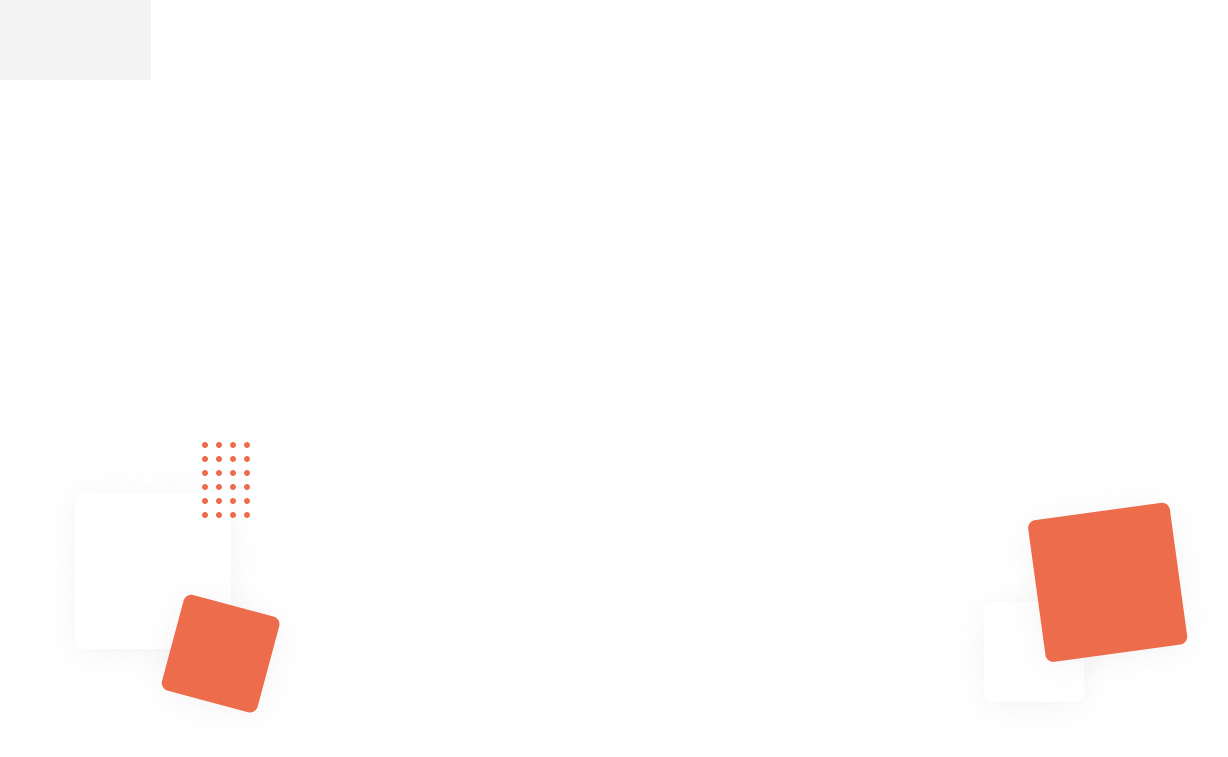
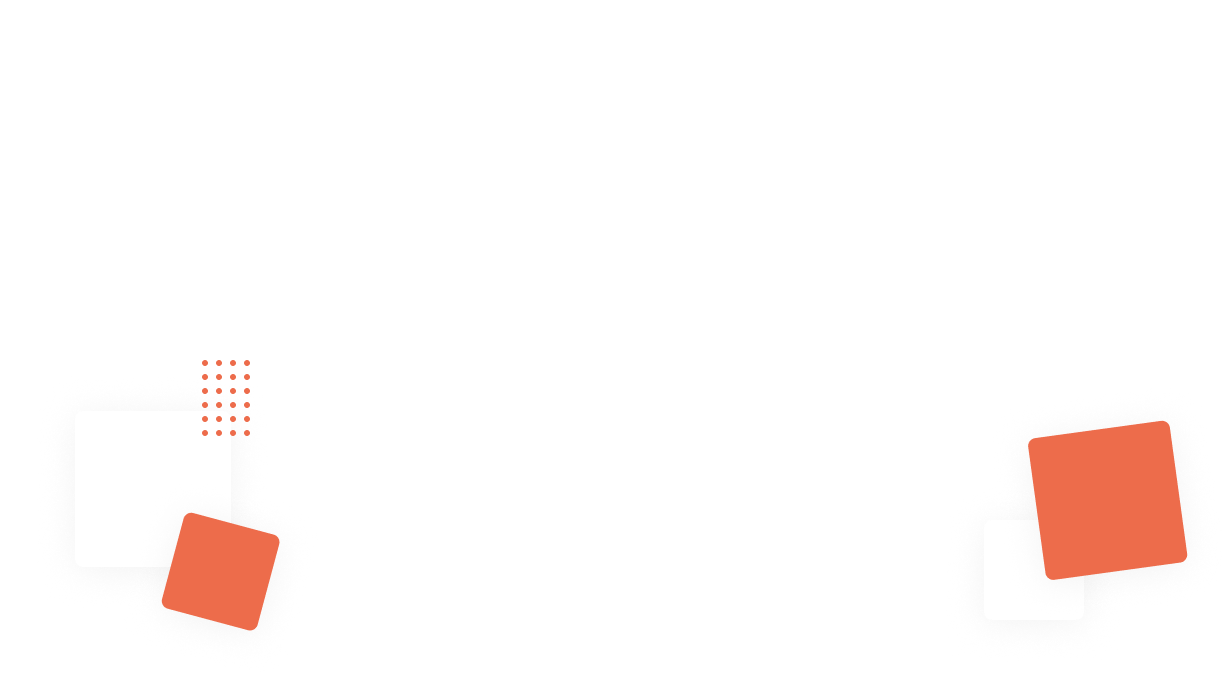
(fix) Auth Backgrounds + Welcome Backgrounds

diff --git a/public/css/app.css b/public/css/app.css
@@ -825,8 +825,8 @@ video {
   inset: 0px;
 }.bottom-0 {
   bottom: 0px;
-}.bottom-80 {
-  bottom: 20rem;
+}.bottom-52 {
+  bottom: 13rem;
 }.bottom-\[60px\] {
   bottom: 60px;
 }.left-0 {
@@ -837,14 +837,12 @@ video {
   right: 0px;
 }.top-0 {
   top: 0px;
-}.bottom-60 {
-  bottom: 15rem;
-}.bottom-40 {
-  bottom: 10rem;
-}.bottom-52 {
-  bottom: 13rem;
-}.bottom-56 {
-  bottom: 14rem;
+}.top-20 {
+  top: 5rem;
+}.bottom-10 {
+  bottom: 2.5rem;
+}.right-10 {
+  right: 2.5rem;
 }.z-10 {
   z-index: 10;
 }.z-20 {
@@ -855,6 +853,8 @@ video {
   z-index: 40;
 }.z-50 {
   z-index: 50;
+}.z-0 {
+  z-index: 0;
 }.col-span-2 {
   grid-column: span 2 / span 2;
 }.col-span-3 {
@@ -865,8 +865,6 @@ video {
   grid-column: span 5 / span 5;
 }.col-span-7 {
   grid-column: span 7 / span 7;
-}.col-span-1 {
-  grid-column: span 1 / span 1;
 }.m-\[120px\] {
   margin: 120px;
 }.mx-\[120px\] {
@@ -974,6 +972,10 @@ video {
   width: fit-content;
 }.w-full {
   width: 100%;
+}.w-1\/12 {
+  width: 8.333333%;
+}.w-1\/6 {
+  width: 16.666667%;
 }.max-w-7xl {
   max-width: 80rem;
 }.max-w-screen-xl {
@@ -1159,9 +1161,6 @@ video {
 }.border-white {
   --tw-border-opacity: 1;
   border-color: rgb(255 255 255 / var(--tw-border-opacity));
-}.border-custom-red {
-  --tw-border-opacity: 1;
-  border-color: rgb(240 30 30 / var(--tw-border-opacity));
 }.bg-blue-700 {
   --tw-bg-opacity: 1;
   background-color: rgb(26 86 219 / var(--tw-bg-opacity));
@@ -1198,13 +1197,13 @@ video {
 }.bg-gray-900 {
   --tw-bg-opacity: 1;
   background-color: rgb(17 24 39 / var(--tw-bg-opacity));
+}.bg-transparent {
+  background-color: transparent;
 }.bg-white {
   --tw-bg-opacity: 1;
   background-color: rgb(255 255 255 / var(--tw-bg-opacity));
 }.bg-white\/50 {
   background-color: rgb(255 255 255 / 0.5);
-}.bg-transparent {
-  background-color: transparent;
 }.bg-opacity-50 {
   --tw-bg-opacity: 0.5;
 }.bg-landing-1 {
@@ -1215,6 +1214,9 @@ video {
   background-position: center;
 }.fill-current {
   fill: currentColor;
+}.object-cover {
+  -o-object-fit: cover;
+     object-fit: cover;
 }.p-1 {
   padding: 0.25rem;
 }.p-2 {
@@ -1451,8 +1453,6 @@ video {
 }.autofill\:bg-custom-light-orange:autofill {
   --tw-bg-opacity: 1;
   background-color: rgb(254 241 237 / var(--tw-bg-opacity));
-}.valid\:bg-transparent:valid {
-  background-color: transparent;
 }.hover\:border-gray-300:hover {
   --tw-border-opacity: 1;
   border-color: rgb(209 213 219 / var(--tw-border-opacity));

diff --git a/resources/views/layouts/auth.blade.php b/resources/views/layouts/auth.blade.php
@@ -15,7 +15,11 @@
 </head>
 
 <body class="font-manrope antialiased h-screen relative flex flex-row">
-    <div class="w-2/3 bg-custom-orange h-full"></div>
+    <div class="w-2/3 bg-custom-orange h-full">
+        <div class="absolute inset-0 z-0">
+            <img src="{{ asset('images/vector-2.png') }}" alt="Vector 2" class="w-1/2">
+        </div>
+    </div>
     <div class="w-1/3 bg-white h-full"></div>
     <div class="absolute inset-0 z-10 m-[120px] grid grid-cols-12 gap-5">
         <x-auth.leftSide />

diff --git a/resources/views/welcome.blade.php b/resources/views/welcome.blade.php
@@ -1,4 +1,10 @@
 <x-guest-layout>
+    <div class="absolute inset-0 z-0">
+        <img src="{{ asset('images/vector-3.png') }}" alt="Vector 3" class="w-auto">
+    </div>
+    <div class="absolute inset-0 z-0">
+        <img src="{{ asset('images/vector-4.png') }}" alt="Vector 4" class="w-auto absolute bottom-0 right-0">
+    </div>
     {{-- Section 1 --}}
     <x-landing.container>
         <div class="h-screen w-full bg-landing-1 bg-cover bg-center">
